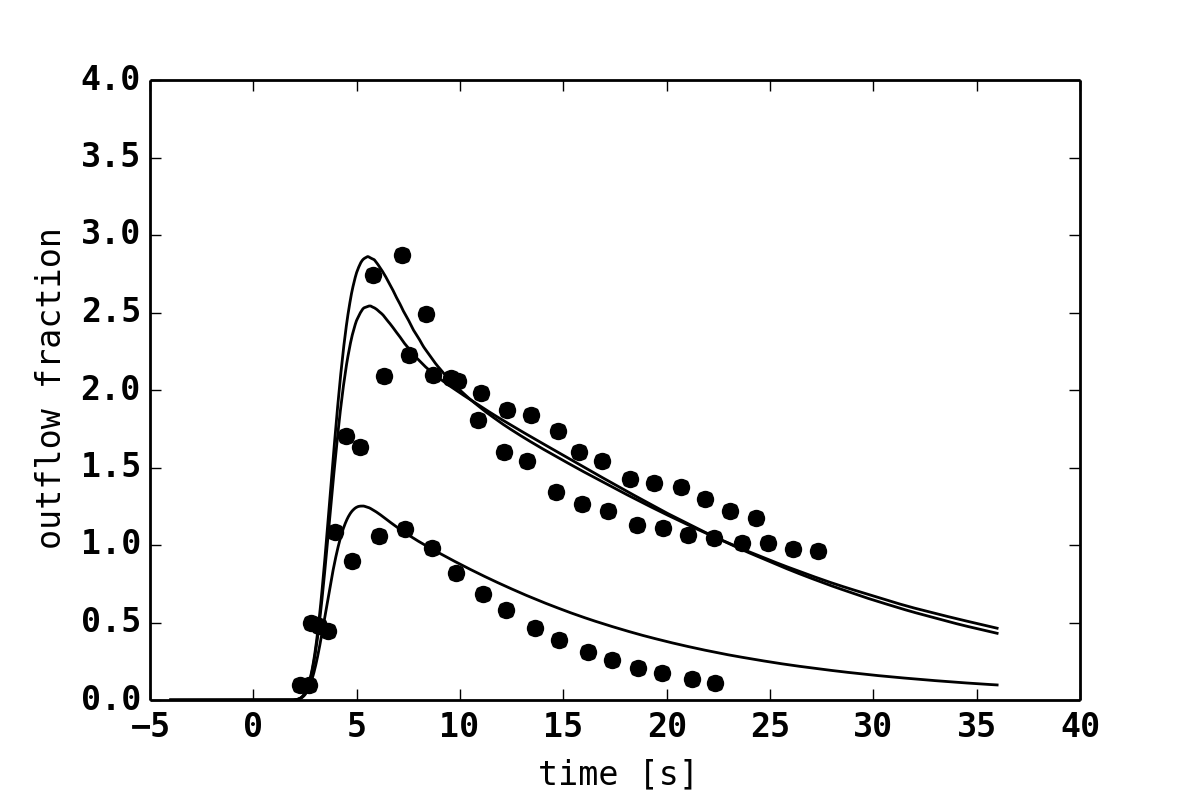
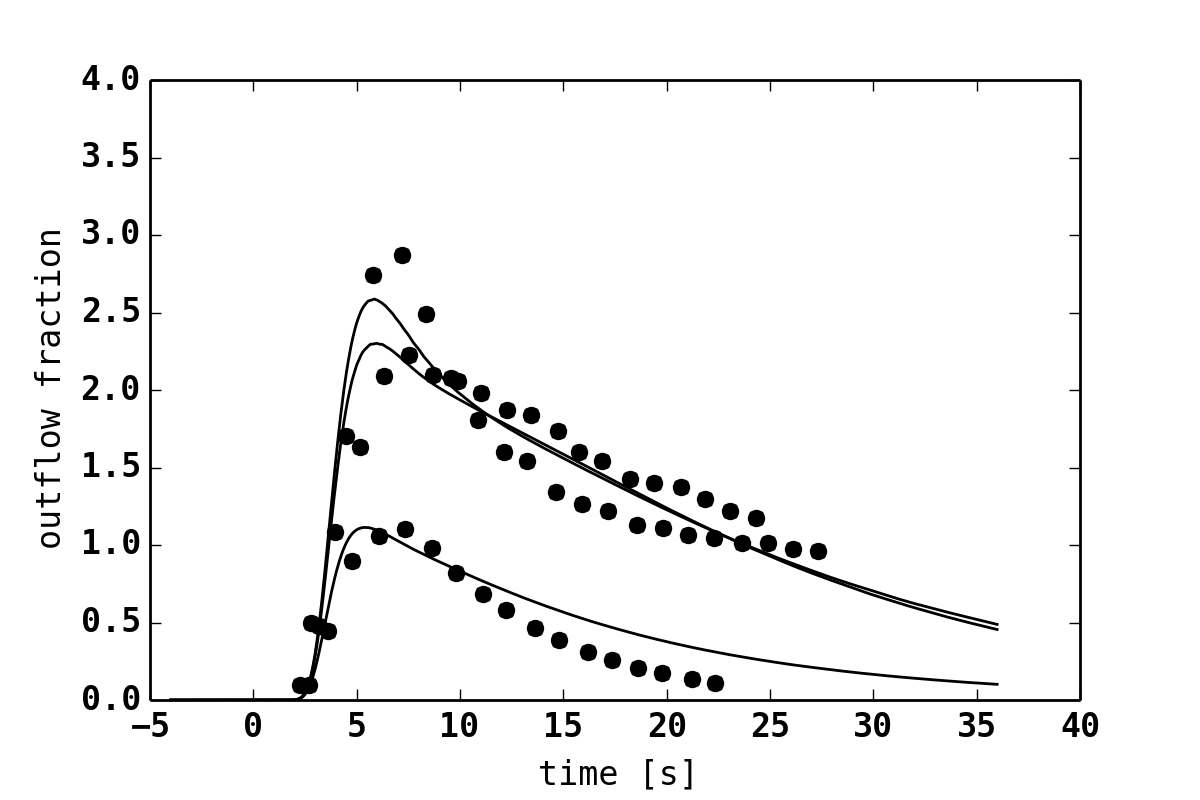
Updating parameters and flow distributions

diff --git a/python/simulator/simulator/roadrunner_tools/galactose_dilution_flux.py b/python/simulator/simulator/roadrunner_tools/galactose_dilution_flux.py
@@ -16,7 +16,7 @@ reload(rp)
 reload(gf)
 
 #########################################################################    
-VERSION = 93
+VERSION = 96
 SBML_DIR = '/home/mkoenig/multiscale-galactose-results/tmp_sbml'
 T_PEAK = 5000
 
@@ -39,10 +39,12 @@ sel += [item for item in r.model.getReactionIds() if item.startswith('D')]
 sel_dict = rt.set_selection(r, sel)
 
 # distribution of fluxes
-flux = gf.flux_sample()
+reload(gf)
+flux = gf.flux_sample() # [m/s]
+print flux
 p_flux = gf.flux_probability(flux)
 f_fac = 0.45
-flow_sin = f_fac * flux * 1E-6 # [m/s] (scaling to calculate in correct volume flow range)
+flow_sin = f_fac * flux # [m/s] (scaling to calculate in correct volume flow range)
 
 #########################################################################    
 # Set parameters and integrate
@@ -50,7 +52,6 @@ flow_sin = f_fac * flux * 1E-6 # [m/s] (scaling to calculate in correct volume f
 # Define the parameters
 # The parameters are extended via the fluxes. I.e. for all fluxes in the
 # flux sample the simulation is performed.
-
 
 gal_p_list = []
 # for gal in [0.28]:
@@ -60,13 +61,14 @@ for gal in [0.28, 12.5, 17.5]:
         d = { 
               "[PP__gal]" : gal, 
               "flow_sin" : f,    
-              "y_dis" : 2.0E-6,
-              "y_cell" : 6.19E-6,
-              "f_cyto" : 0.5,
-              "scale_f" : 0.57,
-              "GALK_PA" : 0.02*1.2,
-              "GLUT2_f" : 10.0,              
-              "H2OT_f": 8.0,               
+              #"y_dis" : 2.0E-6,
+              #"y_cell" : 6.19E-6,
+              
+              #"f_cyto" : 0.5,
+              #"scale_f" : 0.57,
+              #"GALK_PA" : 0.024,
+              #"GLUT2_f" : 10.0,              
+              #"H2OT_f": 8.0,               
               }
         p_list.append(d)
     gal_p_list.append(p_list)

diff --git a/python/simulator/simulator/roadrunner_tools/galactose_functions.py b/python/simulator/simulator/roadrunner_tools/galactose_functions.py
@@ -13,20 +13,21 @@ from roadrunner_tools import selection_dict
 ##  Distribution of fluxes  ##################################################
 def flux_sample():
     # definition of fluxes
-    
-    # flux = np.arange(start=10, stop=1220, step=50)
-    flux = np.arange(start=10, stop=750, step=50)    
+    # flux = np.arange(start=10, stop=750, step=50) *1E-6
+    flux = np.arange(start=10, stop=800, step=50) *1E-6
     
     flux = np.sort(flux)
     return flux
 
 
 def flux_probability(flux):
-    # TODO: fix the SI bug => all values and parameter fits in SI units
     import pylab as plt
-    x = np.linspace(0.1, 1100, num=400) # values for x-axis
-    mu = 5.4572075437    # dtmp['meanlog']
-    sigma = 0.6178209697 # dtmp['sdlog']
+    x = np.linspace(0.1E-6, 1100E-6, num=400) # values for x-axis
+    # mu = -8.358303    # dtmp['meanlog']
+    # sigma = 0.6178210 # dtmp['sdlog']
+    mu = -8.383090    # dtmp['meanlog']
+    sigma = 0.5468566 # dtmp['sdlog']
+    
     pdf = stats.lognorm.pdf(x, sigma, loc=0, scale=np.exp(mu))
     plt.figure(figsize=(12,4.5))
     plt.plot(x, pdf)
@@ -34,6 +35,7 @@ def flux_probability(flux):
     p_flux = stats.lognorm.pdf(flux, sigma, loc=0, scale=np.exp(mu))
     plt.plot(flux, p_flux)
     return p_flux
+    
 
  
 def average_results(f_list, weights, ids, time, selections):

diff --git a/python/modelcreator/modelcreator/models/galactose/GalactoseReactions.py b/python/modelcreator/modelcreator/models/galactose/GalactoseReactions.py
@@ -17,7 +17,7 @@ GALK = ReactionTemplate(
     'c__gal + c__atp <-> c__gal1p + c__adp [c__galM, c__gal1pM]',
     compartments = ['c__'],
     pars = [
-            ('GALK_PA',      0.02,    'mole'),
+            ('GALK_PA',      0.024,    'mole'),
             ('GALK_keq',     50,       '-'),
             ('GALK_k_gal1p', 1.5,     'mM'),
             ('GALK_k_adp',   0.8,     'mM'),
@@ -467,7 +467,7 @@ H2OTM = ReactionTemplate(
     'e__h2oM <-> c__h2oM',
     compartments = ['c__', 'e__'],
     pars = [
-            ('H2OT_f', 3.0, 'mole_per_s'),
+            ('H2OT_f', 8.0, 'mole_per_s'),
             ('H2OT_k',  1.0, 'mM'),
     ],
     rules = [ # id, rule, unit
@@ -483,7 +483,7 @@ GLUT2_GAL = ReactionTemplate(
     'e__gal <-> c__gal [e__galM, c__galM]',
     compartments = ['c__', 'e__'],
     pars = [
-            ('GLUT2_f',    14.0,   'mole_per_s'),
+            ('GLUT2_f',    10.0,   'mole_per_s'),
             ('GLUT2_k_gal', 27.8, 'mM'),
             ('c__GLUT2_P',   1.0, 'mM'),
     ],

diff --git a/python/modelcreator/modelcreator/models/SinusoidalUnit.py b/python/modelcreator/modelcreator/models/SinusoidalUnit.py
@@ -80,15 +80,15 @@ pars.extend([
             ('L',           500E-6,   'm',      True),
             ('y_sin',       4.4E-6,   'm',      True),
             ('y_end',     0.165E-6, 'm',      True),
-            ('y_dis',       2.5E-6,   'm',      True),
+            ('y_dis',       2.0E-6,   'm',      True),
             ('y_cell',     6.19E-6,  'm',      True),
-            ('flow_sin',    270E-6,   'm_per_s',True),
+            ('flow_sin',    229E-6,   'm_per_s',True),
             ('N_fen',        10E12,   'per_m2', True),
             ('r_fen',      53.5E-9,   'm',      True),
             
             ('rho_liv',     1.25E3,    'kg_per_m3', True), 
             ('f_tissue',     0.8, '-', True),
-            ('f_cyto',       0.8, '-', True),
+            ('f_cyto',       0.5, '-', True),
 ])
 names['Nc'] = 'number of cells in sinusoidal unit'
 names['Nf'] = 'external compartments per cell'

diff --git a/python/modelcreator/modelcreator/models/GalactoseFactory.py b/python/modelcreator/modelcreator/models/GalactoseFactory.py
@@ -20,9 +20,9 @@ from modelcreator.events.event_factory import createGalactoseStepEventData
 if __name__ == "__main__":
     
     # definition of cell model and tissue model
-    Nc = 1
+    Nc = 20
     Nf = 1
-    version = 94
+    version = 96
     cell_model = CellModel.createModel('galactose.GalactoseCell')
     tdict = TissueModel.createTissueDict(['SinusoidalUnit', 
                                           'galactose.GalactoseSinusoid']) 

diff --git a/python/modelcreator/modelcreator/models/galactose/GalactoseCell.py b/python/modelcreator/modelcreator/models/galactose/GalactoseCell.py
@@ -49,7 +49,7 @@ species = [
             ('c__nadph',            0.1,    'mM'),
 ]
 pars = [# id, value, unit, constant            
-            ('scale_f',   0.5,   'per_m3',    True),
+            ('scale_f',   0.57,   'per_m3',    True),
             ('REF_P',     1.0,      'mM',   True),
             ('deficiency',  0,      '-',    True),
 ]  
